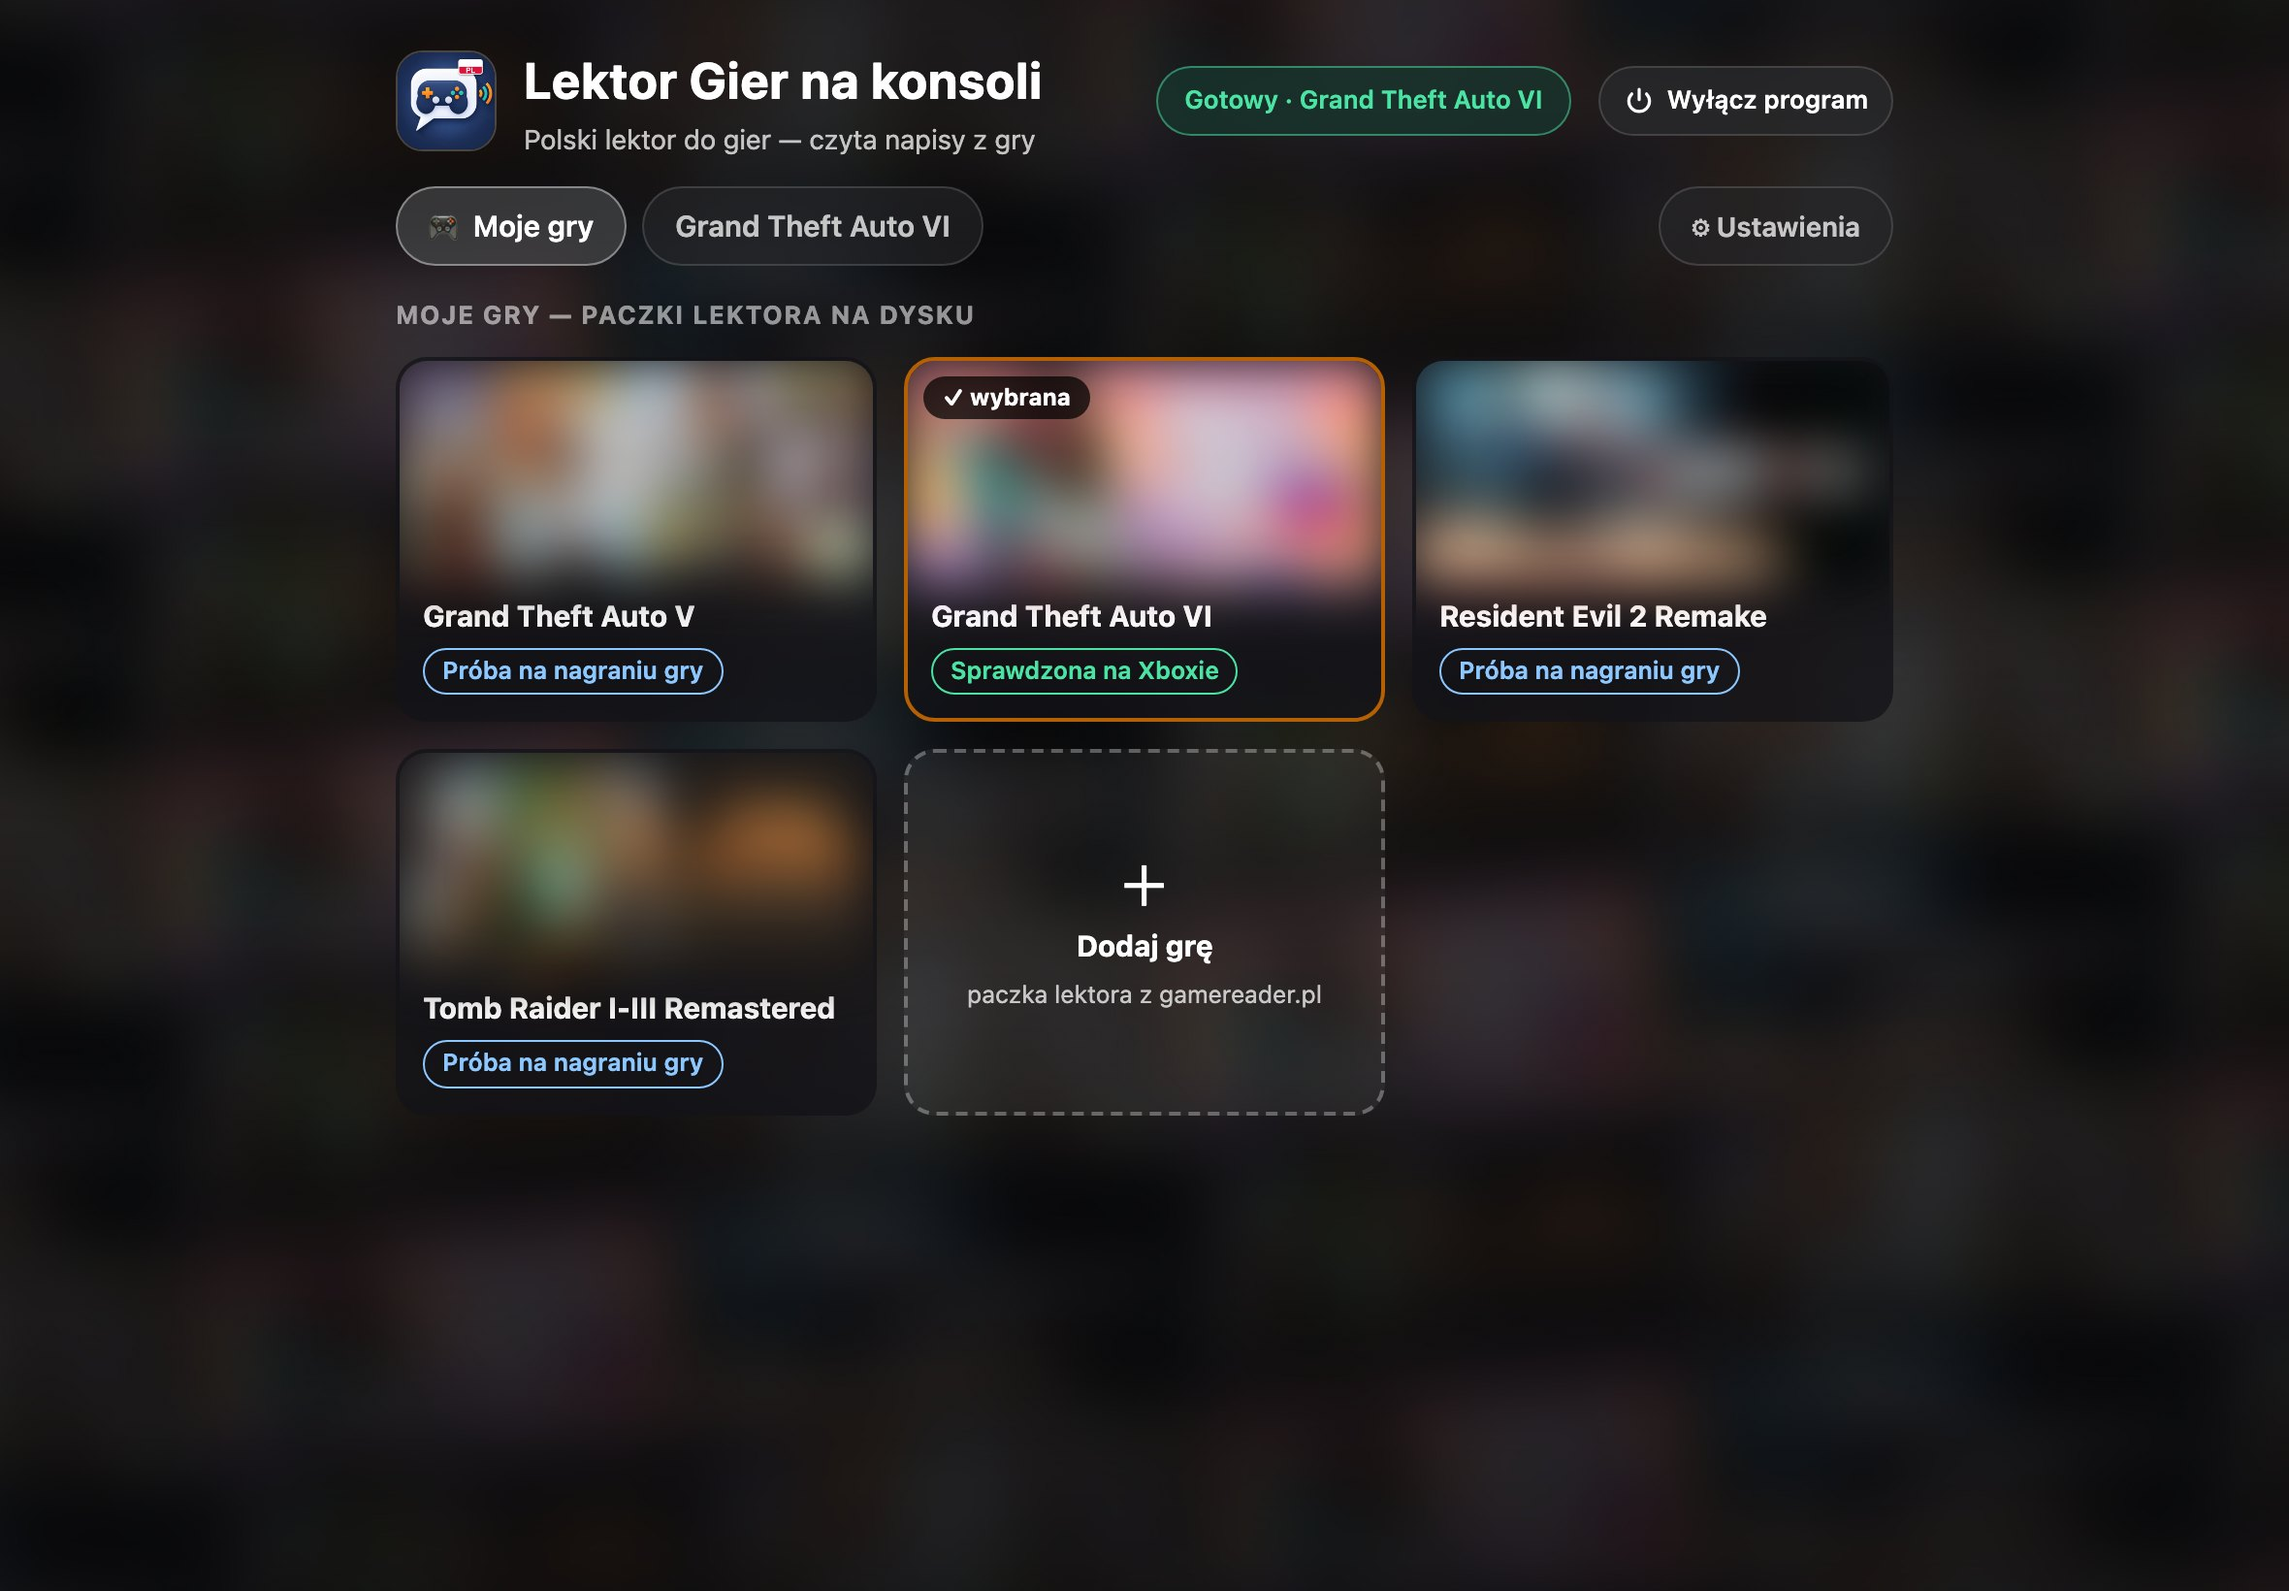
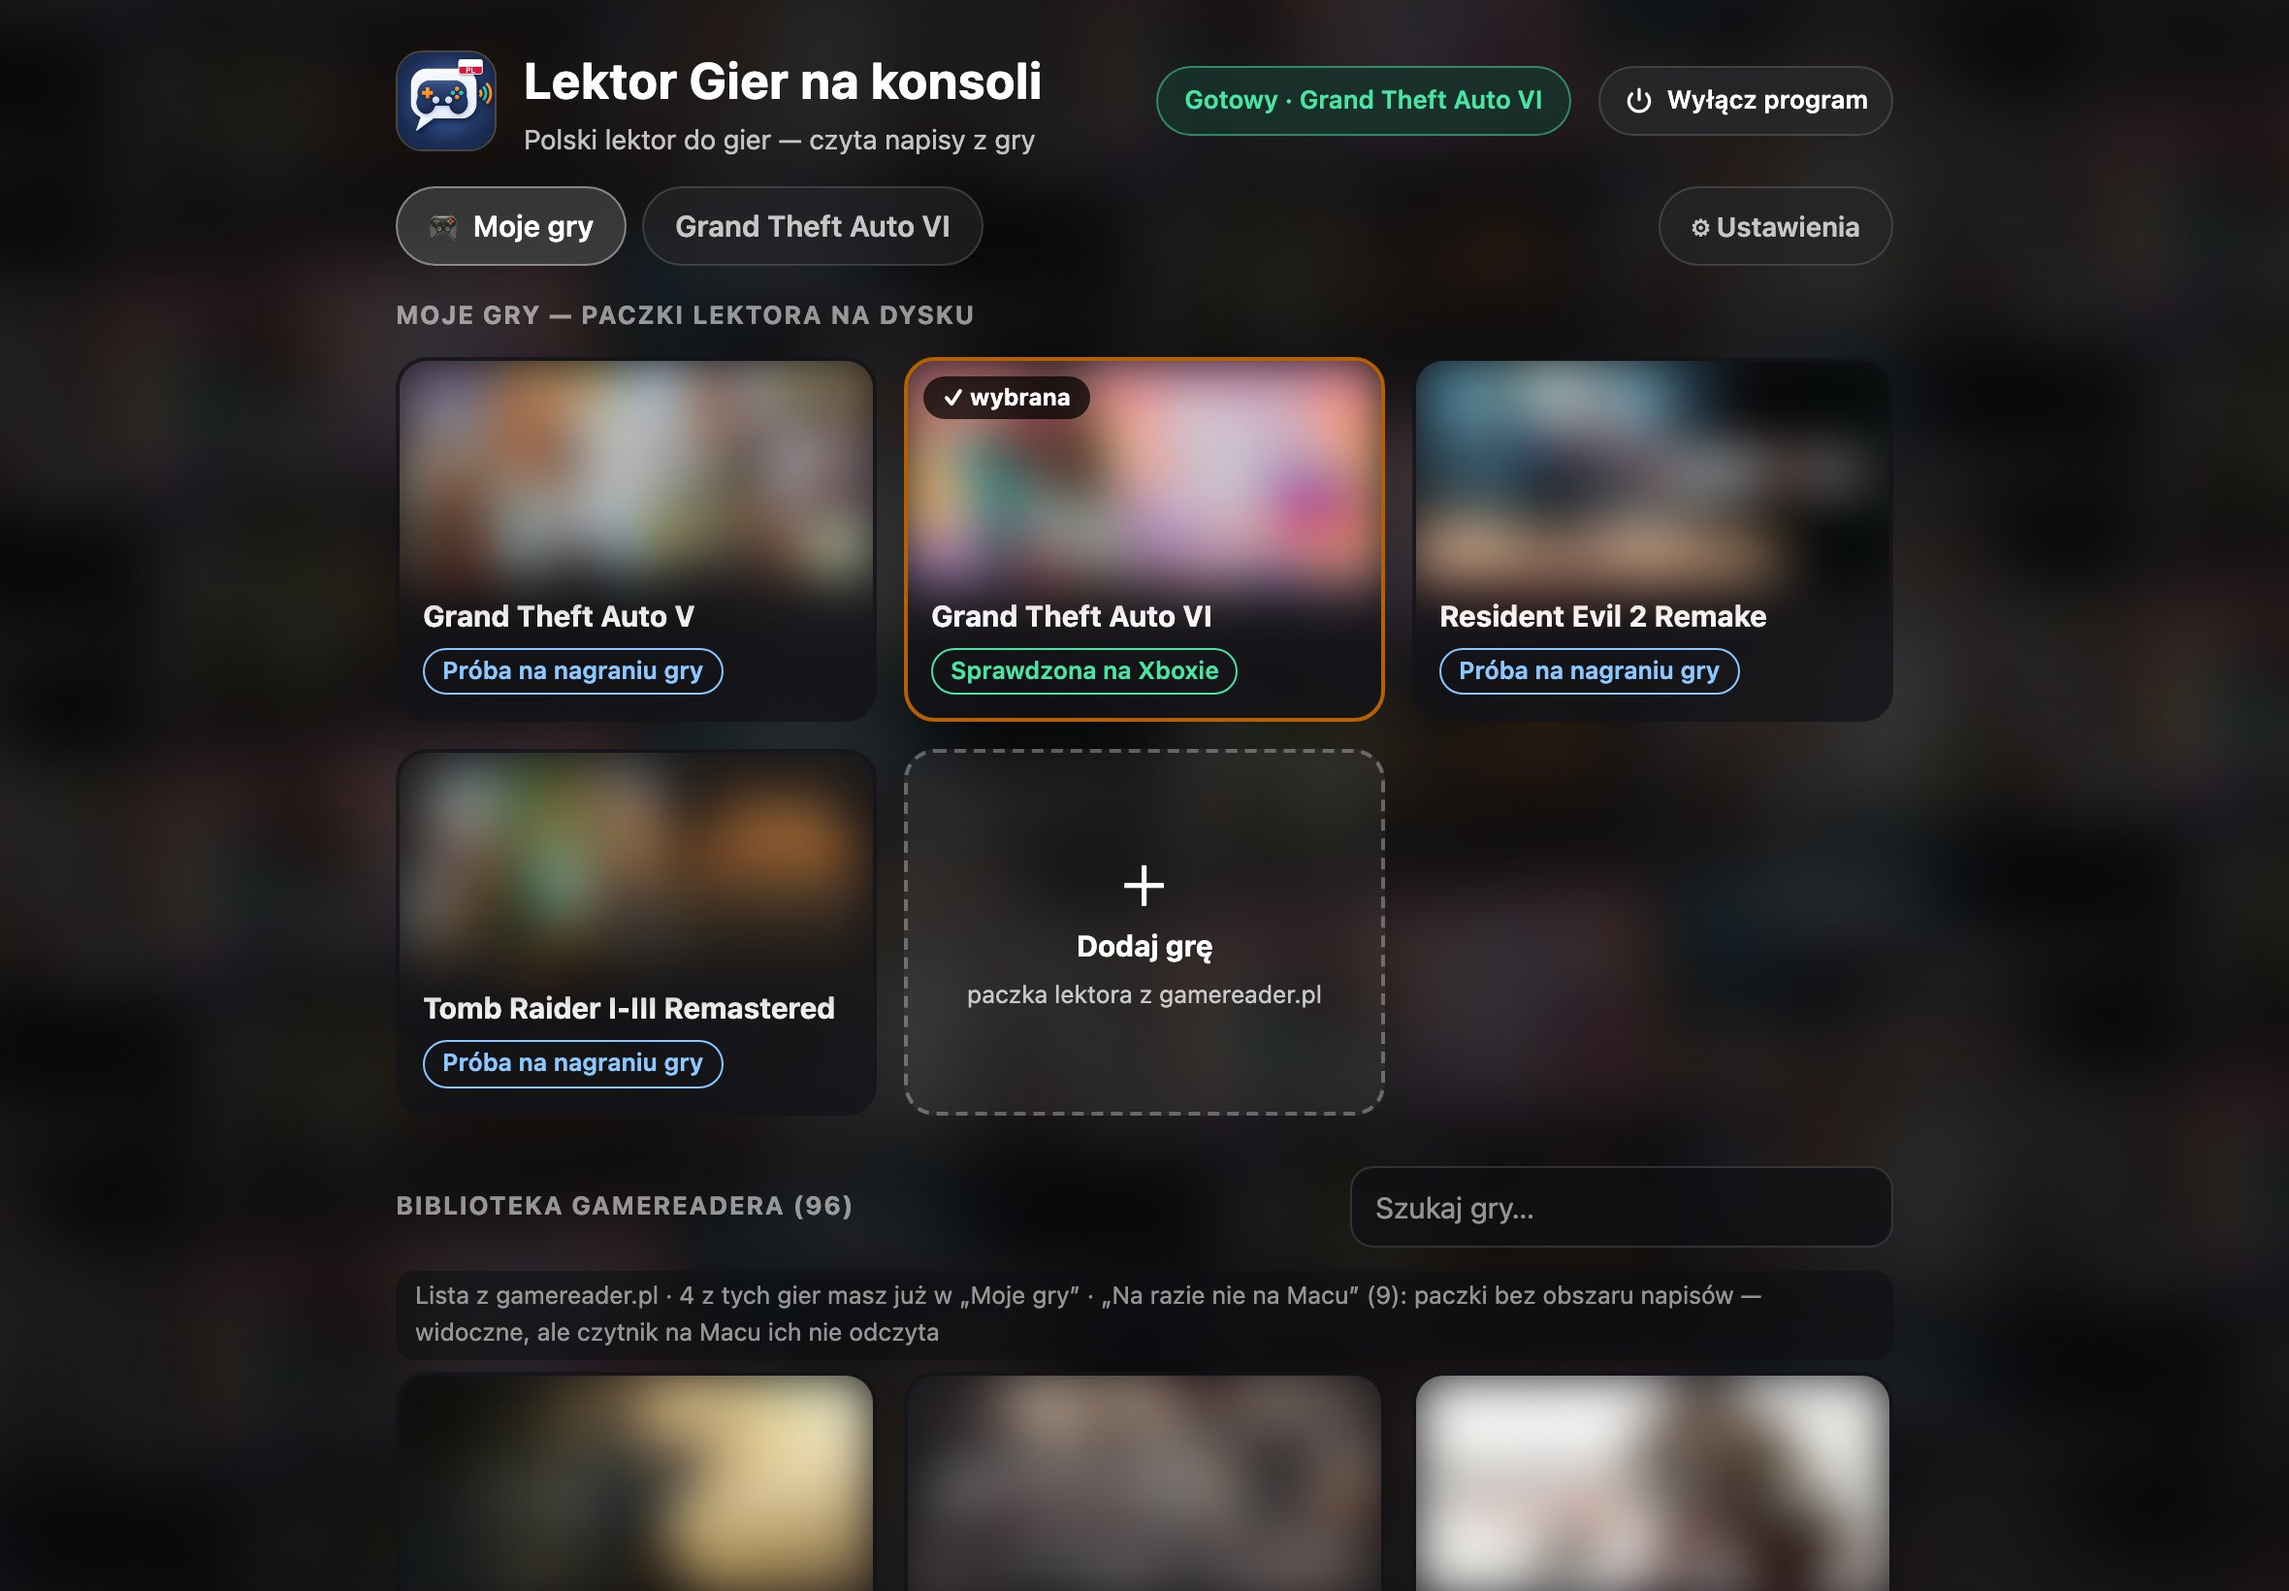
README: library screenshots (Mac, iPhone), all screenshots retaken with covers blurred (E1c)

Changed region(s): [[0.1856, 0.8085, 0.8352, 1.0], [0.1856, 0.7463, 0.3712, 0.7774], [0.5877, 0.7463, 0.6496, 0.7774]]

diff --git a/README.md b/README.md
@@ -16,9 +16,13 @@ Lektor gra z głośników Maca, z głośnika Bluetooth, ze słuchawek albo z **i
 |---|---|---|
 | ![Moje gry na Macu](docs/panel-mac.jpg) | ![Ekran gry na Macu](docs/gra-mac.jpg) | ![Ustawienia na Macu](docs/ustawienia-mac.jpg) |
 
-| Pilot w iPhonie | Ekran gry w iPhonie |
-|---|---|
-| ![Pilot w iPhonie](docs/pilot-iphone.jpg) | ![Ekran gry w iPhonie](docs/iphone-gra.jpg) |
+| Biblioteka GameReadera — „Pobierz” na Macu |
+|---|
+| ![Biblioteka GameReadera na Macu](docs/biblioteka-mac.jpg) |
+
+| Pilot w iPhonie | Biblioteka w iPhonie | Ekran gry w iPhonie |
+|---|---|---|
+| ![Pilot w iPhonie](docs/pilot-iphone.jpg) | ![Biblioteka w iPhonie](docs/iphone-biblioteka.jpg) | ![Ekran gry w iPhonie](docs/iphone-gra.jpg) |
 
 <sub>Okładki gier na zrzutach są celowo rozmyte — należą do wydawców i autorów paczek, w programie widzisz je normalnie.</sub>
 
